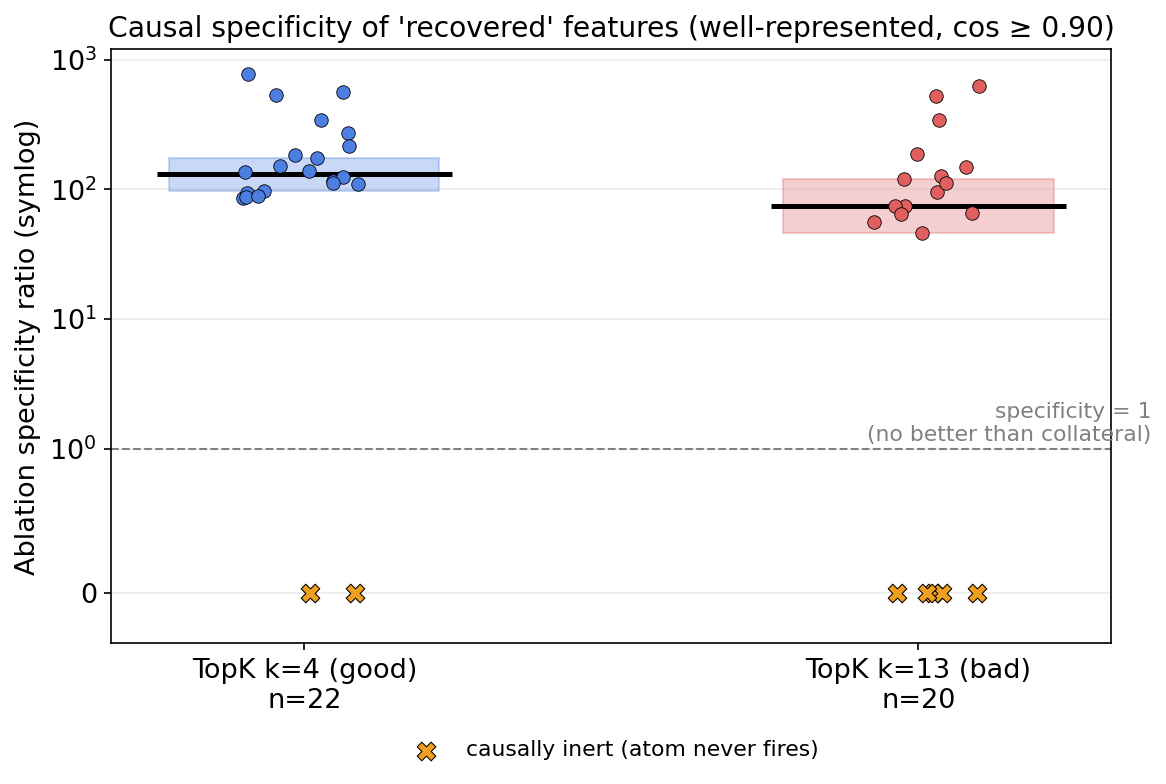
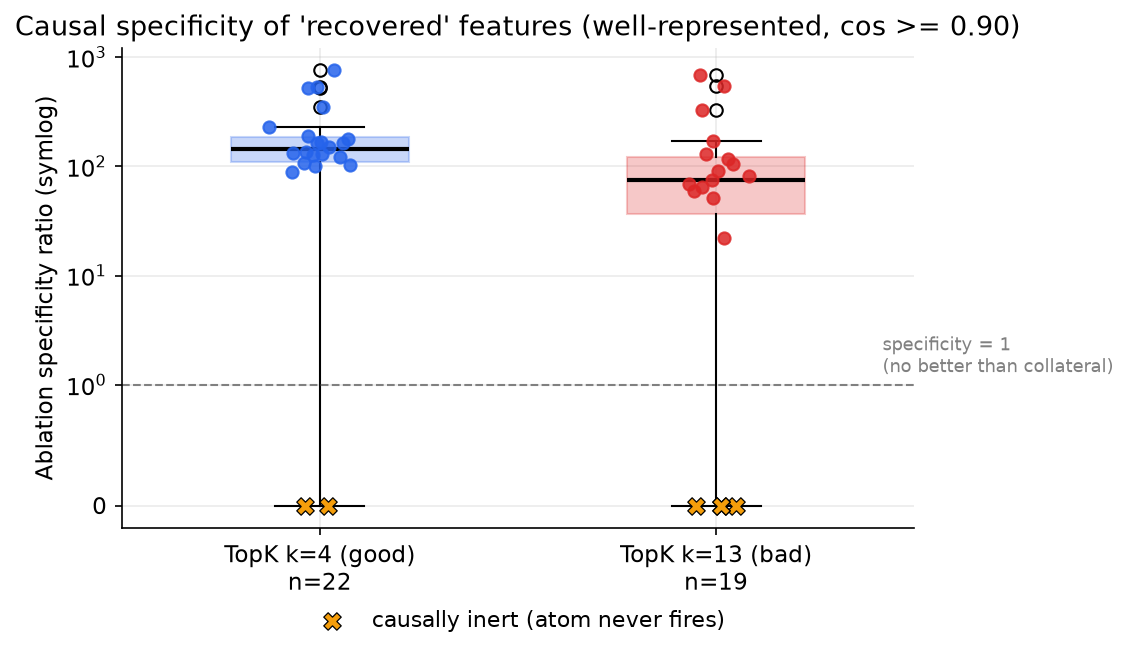
feat: add script to regenerate figures from results and include initial boxplot visual asset

diff --git a/scripts/generate_figures.py b/scripts/generate_figures.py
@@ -114,8 +114,9 @@ def fig_specificity_boxplot(g_rec, b_rec, out: Path) -> None:
     )
     ax.scatter([], [], s=70, marker="X", color=INERT_C, edgecolor="black", lw=0.6,
                label="causally inert (atom never fires)")
-    ax.legend(loc="lower right", frameon=False, fontsize=10)
     fig.tight_layout()
+    fig.subplots_adjust(bottom=0.22)
+    ax.legend(loc="upper center", bbox_to_anchor=(0.5, -0.13), frameon=False, fontsize=10.5, ncol=1)
     fig.savefig(out, bbox_inches="tight")
     plt.close(fig)
 
@@ -142,9 +143,15 @@ def fig_cosine_vs_specificity(g_rec, b_rec, out: Path) -> None:
         spec_val = _cap([worst_f["ablation_specificity"]])[0]
         ax.set_xlim(left=0.84)
         bbox_props = dict(boxstyle="round,pad=0.3", fc="white", ec="gray", lw=0.5, alpha=0.9)
-        text = (f"cos = {worst_f['cosine']:.4f},\n"
-                f"{'never fires' if worst_f['fired_frac'] == 0 else f'fired_frac = {worst_f['fired_frac']:.3f}'},\n"
-                f"ablation spec = {worst_f['ablation_specificity']:.1f}")
+        if worst_f["fired_frac"] == 0:
+            fired_desc = "never fires"
+        else:
+            fired_desc = f"fired_frac = {worst_f['fired_frac']:.3f}"
+        text = (
+            f"cos = {worst_f['cosine']:.4f},\n"
+            f"{fired_desc},\n"
+            f"ablation spec = {worst_f['ablation_specificity']:.1f}"
+        )
         ax.annotate(
             text, xy=(worst_f["cosine"], spec_val), xytext=(0.85, max(10, spec_val)),
             bbox=bbox_props,